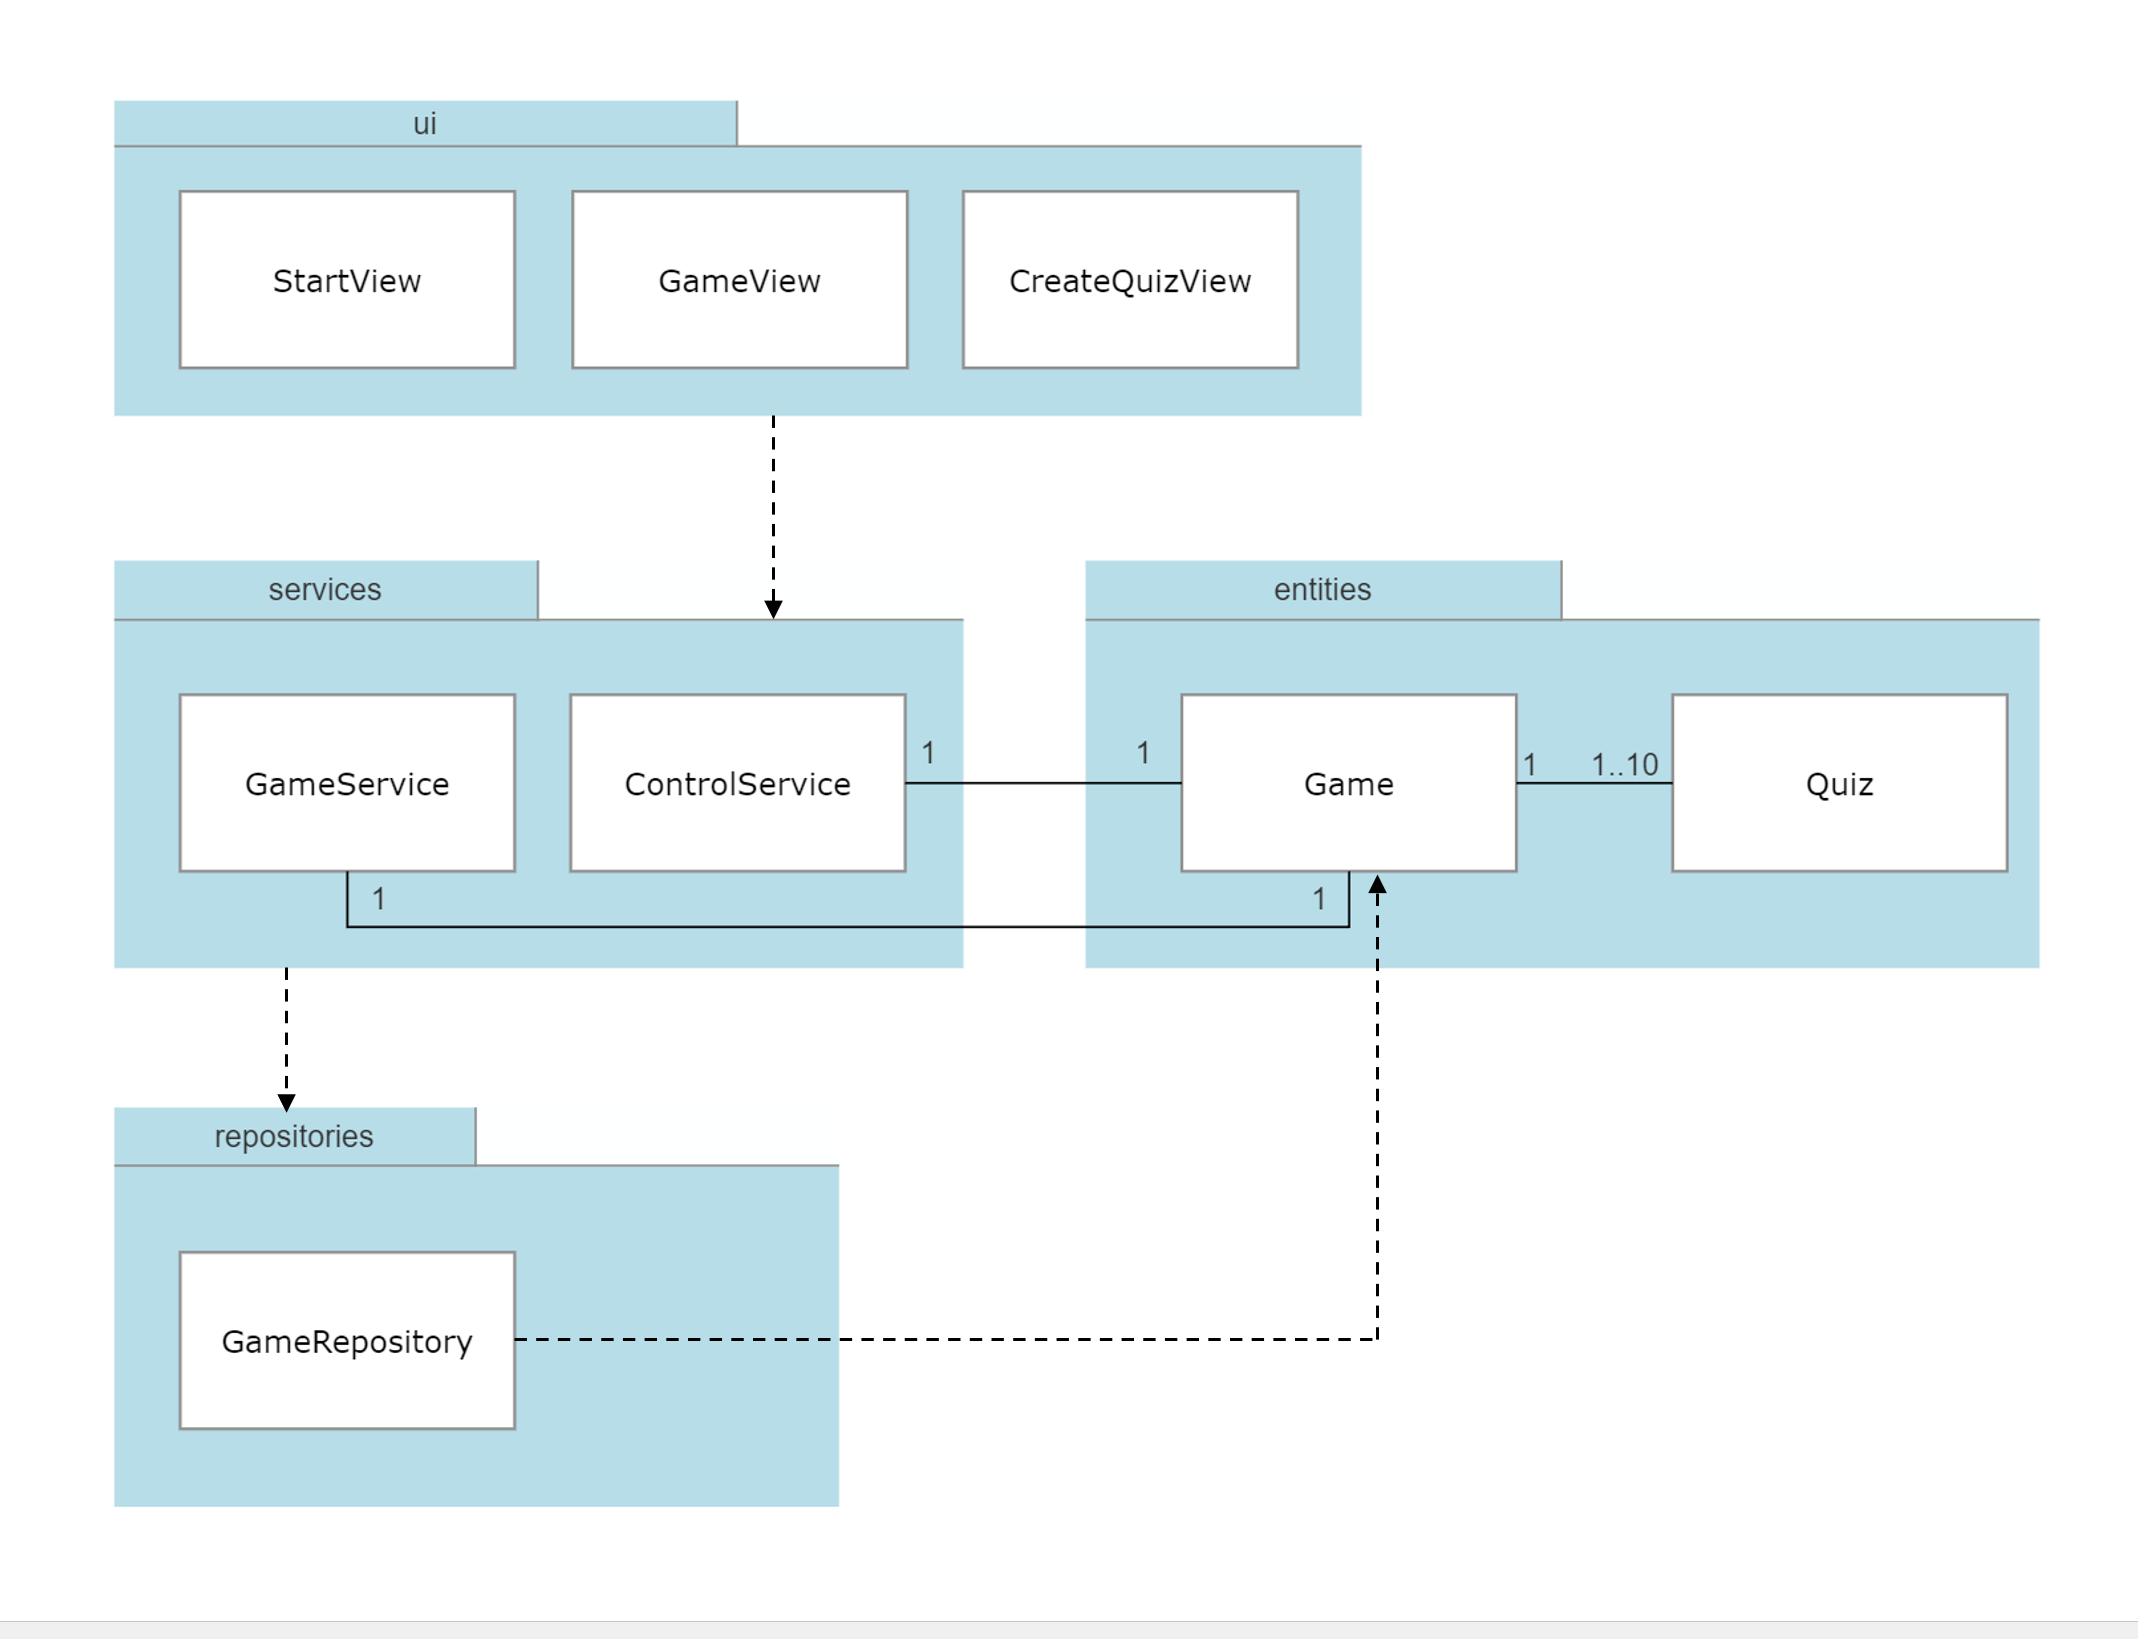
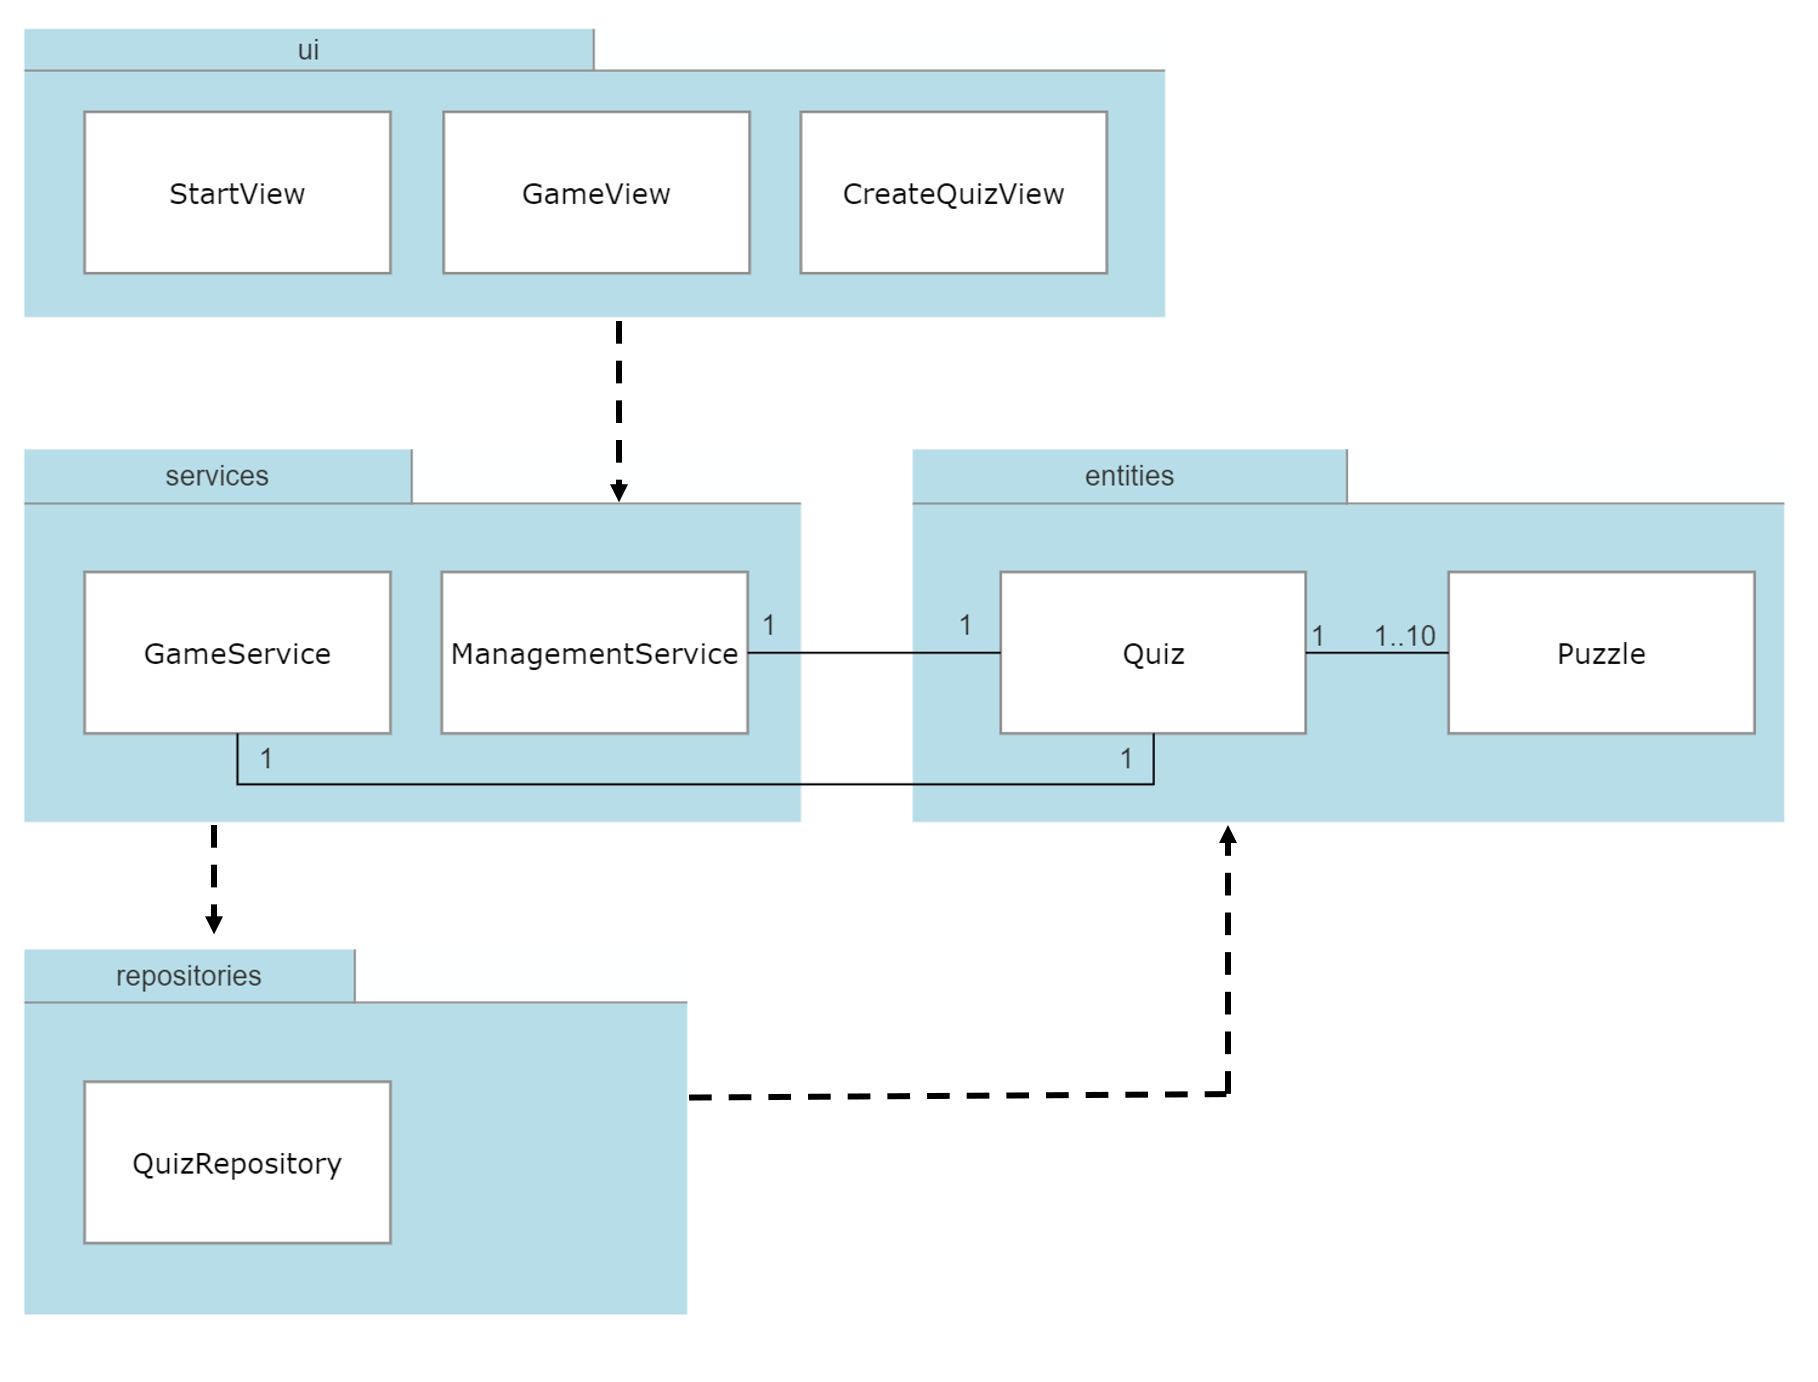
dokumentaatio päivitetty

diff --git a/dokumentaatio/vaatimusmaarittely.md b/dokumentaatio/vaatimusmaarittely.md
@@ -21,7 +21,7 @@ Käyttöliittymässä on kolme näkymää:
 - Luo uusi peli -näkymä (**tehty osittain**)
 
 ### Uuden visailun luominen
-Käyttäjä voi luoda uuden visailun, jossa on käyttäjän valitsema määrä arvaustehtäviä. Käyttäjä valitsee jokaiseen tehtävään 5 luukkuihin piilotettavaa sanaa. Sanat tulee olla peräkkäisiä sanoja jonkun laulun sanoituksesta. Lisäksi tehtävän yhteyteen voi liittää muita lisätietoja, kuten kappaleen nimen, esittäjän tai julkaisuvuoden. Näitä tietoja ei kuitenkaan näytetä visailun aikana, vaan ne ovat ainoastaan käyttäjän omaan käyttöön.
+Käyttäjä voi luoda uuden visailun, jossa on käyttäjän valitsema määrä arvaustehtäviä. Käyttäjä valitsee jokaiseen tehtävään 5 luukkuihin piilotettavaa sanaa. Sanat tulee olla peräkkäisiä sanoja jonkun laulun sanoituksesta. Lisäksi tehtävän yhteyteen voi liittää muita lisätietoja, kuten kappaleen nimen, esittäjän tai julkaisuvuoden. Näitä tietoja ei näytetä visailun aikana, vaan ne ovat ainoastaan käyttäjän omaan käyttöön.
 
 Teknisiä vaatimuksia visailun luomiselle:
 
@@ -29,15 +29,16 @@ Teknisiä vaatimuksia visailun luomiselle:
 - Käyttäjä voi liittää visailuun haluamansa määrän arvaustehtäviä
 - Käyttäjä voi päättää arvaustehtävään piilotettavat sanat
 - Sovellus tarkistaa lopuksi, että mikään vaadituista kentistä ei ole tyhjänä
-- Visailu tallennetaan tietokantaan
+- Visailu tallennetaan tietokantaan (**tehty osittain**)
 
 ### Tallennettujen visailujen selaileminen
 Käyttäjä voi katsoa järjestelmään tallennettujen visailujen tietoja.
 
 ### Pelaaminen
-- Käyttäjä voi käynnistää sovellukseen tallennetun visailun.
-- Sovellus näyttää tallennettuja tehtäviä yksi kerrallaan.
-- Käyttäjä voi klikata pelinäkymän luukkuja auki haluamassaan järjestyksessä.
+- Käyttäjä voi käynnistää tallennetun visailun. (**tehty**)
+- Sovellus näyttää tallennettuja tehtäviä yksi kerrallaan. (**tehty osittain**)
+- Käyttäjä voi klikata pelinäkymän luukkuja auki haluamassaan järjestyksessä. (**tehty**)
+- Käyttäjä voi lisätä pisteitä joukkueille
 
 ## Jatkokehitysideoita 
 Perusversion toteutuksen jälkeen sovellukseen on mahdollista lisätä ajan salliessa esimerkiksi seuraavia ominaisuuksia:

diff --git a/dokumentaatio/changelog.md b/dokumentaatio/changelog.md
@@ -14,3 +14,11 @@
 - Toteutettu CreateNewQuizView-luokan runko, jonka kautta voi luoda uuden visailun
 - Perehdytty Tkinteriin ja toteutettu siirtymät näkymien välille painikkeiden avulla
 - Hoidettu kuntoon projektin muita asioita kuten testaaminen, testiraportit ja pylint
+
+## Viikko 5
+
+- Aloitusnäkymään lisätty Listbox, joka listaa kaikki tietokannassa olevat visailut
+- Pelinäkymän toiminnallisuutta on kehitetty niin, että laatikoita voi nyt avata, jolloin piilossa oleva sana paljastuu
+- SQLite tietokanta otettu käyttöön
+- Lisätty ManagementService-luokka, joka hoitaa pelinäkymän ulkopuolisia palveluita
+- Päädytty luomaan erilliset luokat Quiz ja Puzzle, eli Puzzle on "arvoitus" ja Quiz on "visailu", visailuun voi liittyä monta arvoitusta

diff --git a/dokumentaatio/tyoaikakirjanpito.md b/dokumentaatio/tyoaikakirjanpito.md
@@ -11,4 +11,11 @@
 | 16.4. | 5    | Tkinteriin perehtyminen      |
 | 17.4  | 3    | Aloitusnäkymän luominen, pylintin käyttöönotto      |
 | 18.4. | 4    | Käyttöliittymän siirtymien toteutus|
-| Yht.  | 23  |                              |
+| 22.4. | 4    | Tietokannan hahmottelua      |
+|       | 3    | Aloitusnäkymän Listbox lisätty |
+| 22.4. | 4    | Tietokannasta lukeminen toteutettu |
+|       | 2    | Pelinäkymän sanojen kääntämistä hahmoteltu |
+| 23.4. | 3    | ManagementService luotu      |
+| 25.4. | 2    | QuizRepositorion toimintaa kehitetty |
+|       | 2    | Tietokantaan tallentaminen toteutettu|
+| Yht.  | 46  |                              |
